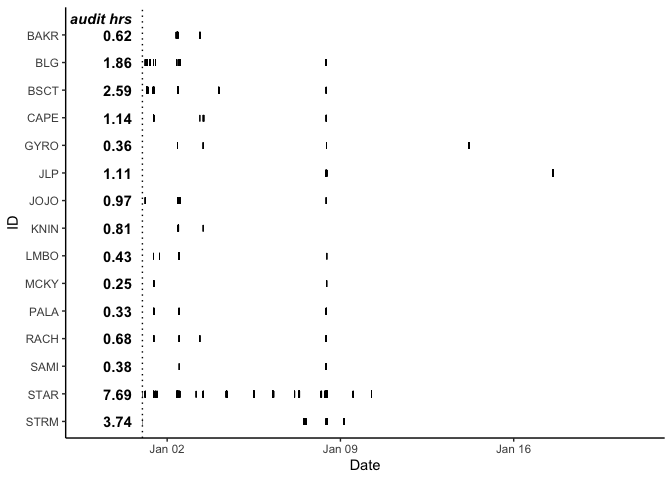
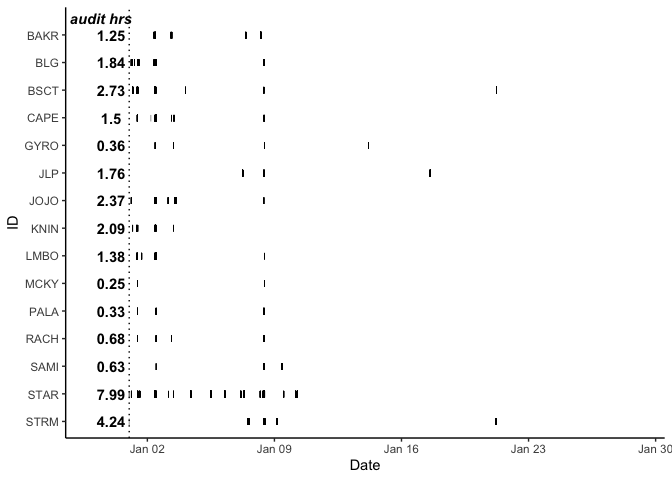
update README

diff --git a/README.md b/README.md
@@ -1,9 +1,9 @@
 # Hyena cc23 labeling status
-Last updated on March 05, 2024
+Last updated on March 28, 2024
 
 ### Current state
 
-There are 3.01 hours of calls in 22.96 hours of total audit time.
+There are 4.11 hours of calls in 29.42 hours of total audit time.
 
 ### Labels by date and id
 
@@ -15,15 +15,15 @@ There are 3.01 hours of calls in 22.96 hours of total audit time.
 
 | call | total_count |  foc |  non | unf | total_duration | total_inds | total_audits |
 |:-----|------------:|-----:|-----:|----:|---------------:|-----------:|-------------:|
-| whp  |        1815 |  675 | 1111 |  22 |        2622.16 |         15 |          102 |
-| grn  |        1895 | 1460 |  352 |  74 |        2630.40 |         15 |           90 |
-| gig  |         303 |   38 |  236 |  25 |         334.44 |         12 |           42 |
-| rum  |         240 |  158 |   72 |   9 |         386.35 |         10 |           33 |
-| sql  |         521 |   43 |  434 |  40 |         514.72 |         14 |           39 |
+| whp  |        2252 |  908 | 1320 |  18 |        3202.37 |         15 |          126 |
+| grn  |        2234 | 1637 |  510 |  77 |        2926.67 |         15 |          100 |
+| gig  |         446 |   73 |  335 |  33 |         466.14 |         13 |           56 |
+| rum  |         290 |  193 |   86 |  10 |         439.50 |         10 |           38 |
+| sql  |         768 |   88 |  623 |  54 |         682.91 |         14 |           53 |
 | grl  |           8 |    2 |    4 |   1 |           5.03 |          2 |            3 |
-| fed  |         185 |  183 |    3 |   0 |        3237.53 |          7 |           11 |
-| str  |         487 |    0 |  481 |   1 |         646.69 |         12 |           46 |
-| oth  |         409 |   52 |  322 |  27 |         198.53 |         15 |           61 |
+| fed  |         477 |  475 |    3 |   0 |        5512.11 |          9 |           16 |
+| str  |         669 |    2 |  659 |   3 |         822.68 |         13 |           59 |
+| oth  |         667 |  101 |  506 |  49 |         286.23 |         15 |           76 |
 | syn  |           2 |    0 |    0 |   0 |           1.06 |          1 |            2 |
 
 ### Start and end of audit issues
@@ -32,6 +32,7 @@ These audits have issues with start and end of audit:
 
 | audit | issue                        |
 |:------|:-----------------------------|
+| 170   | audit not bounded by soa/eoa |
 | 188   | audit not bounded by soa/eoa |
 | 9     | audit not bounded by soa/eoa |
 | 66    | audit not bounded by soa/eoa |
@@ -42,6 +43,6 @@ These audits have issues with start and end of audit:
 | 68    | audit not bounded by soa/eoa |
 | 34    | audit not bounded by soa/eoa |
 | 19    | audit not bounded by soa/eoa |
-| 40    | audit not bounded by soa/eoa |
+| 37    | audit not bounded by soa/eoa |
 | 42    | audit not bounded by soa/eoa |
 | 100   | audit not bounded by soa/eoa |
